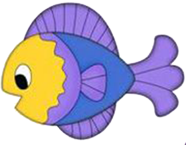
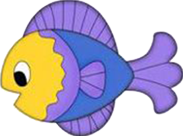
Collision error fix + minimized transparent space in images

diff --git a/assets/js/game.js b/assets/js/game.js
@@ -8,12 +8,13 @@ var player = {
         x: 30,
         y: canvas.height / 2
     },
-    speed: 2,
+    speed: 6,
     points: 0
 };
 
 var game = {
-    'isRunning': true
+    'isRunning': false,
+    'entity_speed': 3
 };
 
 var keyState = {
@@ -23,7 +24,7 @@ var keyState = {
     'bottom': false
 };
 
-var images = [], sharks = [], fish = [];
+var images = [], sharks = [], fish = [], movableObjects = [];
 
 // Utilities
 const DIRECTION = {
@@ -43,9 +44,7 @@ function loadImages(imageArray) {
         images[key].src = "assets/img/" + imageArray[key];
         images[key].onload = function () {
             loaded++;
-            if (loaded >= needToBeLoaded) setTimeout(() => {
-                $(".page-wrapper").fadeIn()
-            }, 350);
+            if (loaded >= needToBeLoaded) setTimeout(startGame, 350);
         };
     }
 }
@@ -69,24 +68,27 @@ function movePlayer(direction) {
     }
 }
 
-function isInRange(x1, x2, x3, x4) {
-    return (x1 >= x3 && x1 <= x4) || (x2 >= x3 && x2 <= x4);
+function isInRange(min1, min2, rangeIn, rangeOut) {
+    return (min1 >= rangeIn && min1 <= rangeOut) || (min2 >= rangeIn && min2 <= rangeOut);
 }
 
 function isCollides(enemy, eImg) {
-    return isInRange(player.position.x, player.position.x + images['player'].width, enemy.x, enemy.x + eImg.width) && isInRange(player.position.y, player.y + images['player'].height, enemy.y, enemy.y + eImg.height);
+    return isInRange(player.position.x, player.position.x + images['player'].width, enemy.x, enemy.x + eImg.width) && isInRange(player.position.y - images['player'].height, player.position.y, enemy.y - eImg.height, enemy.y);
 }
 
 function randomInteger(min, max) {
     return Math.floor(Math.random() * (max - min)) + min;
 }
 
+
+// =============== Preloading ===============
 loadImages({
     "player": "player.png",
     "shark": "shark.png",
     "fish": "fish.png"
 });
 
+// Image scaling
 images['player'].width *= .8;
 images['shark'].width *= 1.3;
 images['fish'].width *= .5;
@@ -96,18 +98,32 @@ images['fish'].height *= .5;
 
 player.position.y -= images['player'].height / 2;
 
+function startGame() {
+    sharkSpawn();
+    fishSpawn();
+    window.requestAnimationFrame(render);
+    $(".page-wrapper").fadeIn();
+    game.isRunning = true;
+}
+
 function render() {
-    if (!game.isRunning) return window.requestAnimationFrame(render);
+    if (!game.isRunning) {
+        return window.requestAnimationFrame(render);
+    }
     ctx.clearRect(0, 0, canvas.width, canvas.height);
     if (keyState.left) movePlayer(DIRECTION.LEFT);
     if (keyState.right) movePlayer(DIRECTION.RIGHT);
     if (keyState.bottom) movePlayer(DIRECTION.BOTTOM);
     if (keyState.top) movePlayer(DIRECTION.TOP);
-    // player.position.x++; player.position.y++;
+    movableObjects = [{obj: {x: player.position.x, y: player.position.y}, image: images['player']}];
     sharks.forEach((shark, i) => {
-        shark.x--;
+        shark.x -= game.entity_speed;
         ctx.drawImage(images['shark'], shark.x, shark.y, images['shark'].width, images['shark'].height);
         if (shark.x < -images['shark'].width) sharks.splice(i, 1);
+        movableObjects.push({
+            obj: shark,
+            image: images['shark']
+        });
         if (isCollides(shark, images['shark'])) {
             ctx.font = "100px Roboto";
             ctx.fillStyle = "yellow";
@@ -117,14 +133,26 @@ function render() {
         }
     });
     fish.forEach((fishh, i) => {
-        fishh.x--;
+        fishh.x -= game.entity_speed;
         ctx.drawImage(images['fish'], fishh.x, fishh.y, images['fish'].width, images['fish'].height);
         if (fishh.x < -images['fish'].width) fish.splice(i, 1);
+        movableObjects.push({
+            obj: fishh,
+            image: images['fish']
+        });
         if (isCollides(fishh, images['fish'])) {
             fish.splice(i, 1);
             player.points++;
         }
     });
+
+
+    ctx.lineWidth = 2;
+    movableObjects.forEach(obj => {
+        ctx.strokeRect(obj.obj.x, obj.obj.y, obj.image.width, obj.image.height);
+    });
+
+
     ctx.drawImage(images['player'], player.position.x, player.position.y, images['player'].width, images['player'].height);
 
     ctx.font = "16px Roboto";
@@ -135,17 +163,19 @@ function render() {
 }
 
 function sharkSpawn() {
-    sharks.push({
-        x: canvas.width + images['shark'].width,
-        y: randomInteger(0, canvas.width - images['shark'].width)
-    });
+    if (game.isRunning)
+        sharks.push({
+            x: canvas.width + images['shark'].width,
+            y: randomInteger(0, canvas.width - images['shark'].width)
+        });
 }
 
 function fishSpawn() {
-    fish.push({
-        x: canvas.width + images['fish'].width,
-        y: randomInteger(0, canvas.width - images['fish'].width)
-    });
+    if (game.isRunning)
+        fish.push({
+            x: canvas.width + images['fish'].width,
+            y: randomInteger(0, canvas.width - images['fish'].width)
+        });
 }
 
 setInterval(() => {
@@ -204,7 +234,3 @@ document.addEventListener("keyup", e => {
             break;
     }
 });
-
-sharkSpawn();
-fishSpawn();
-window.requestAnimationFrame(render);
